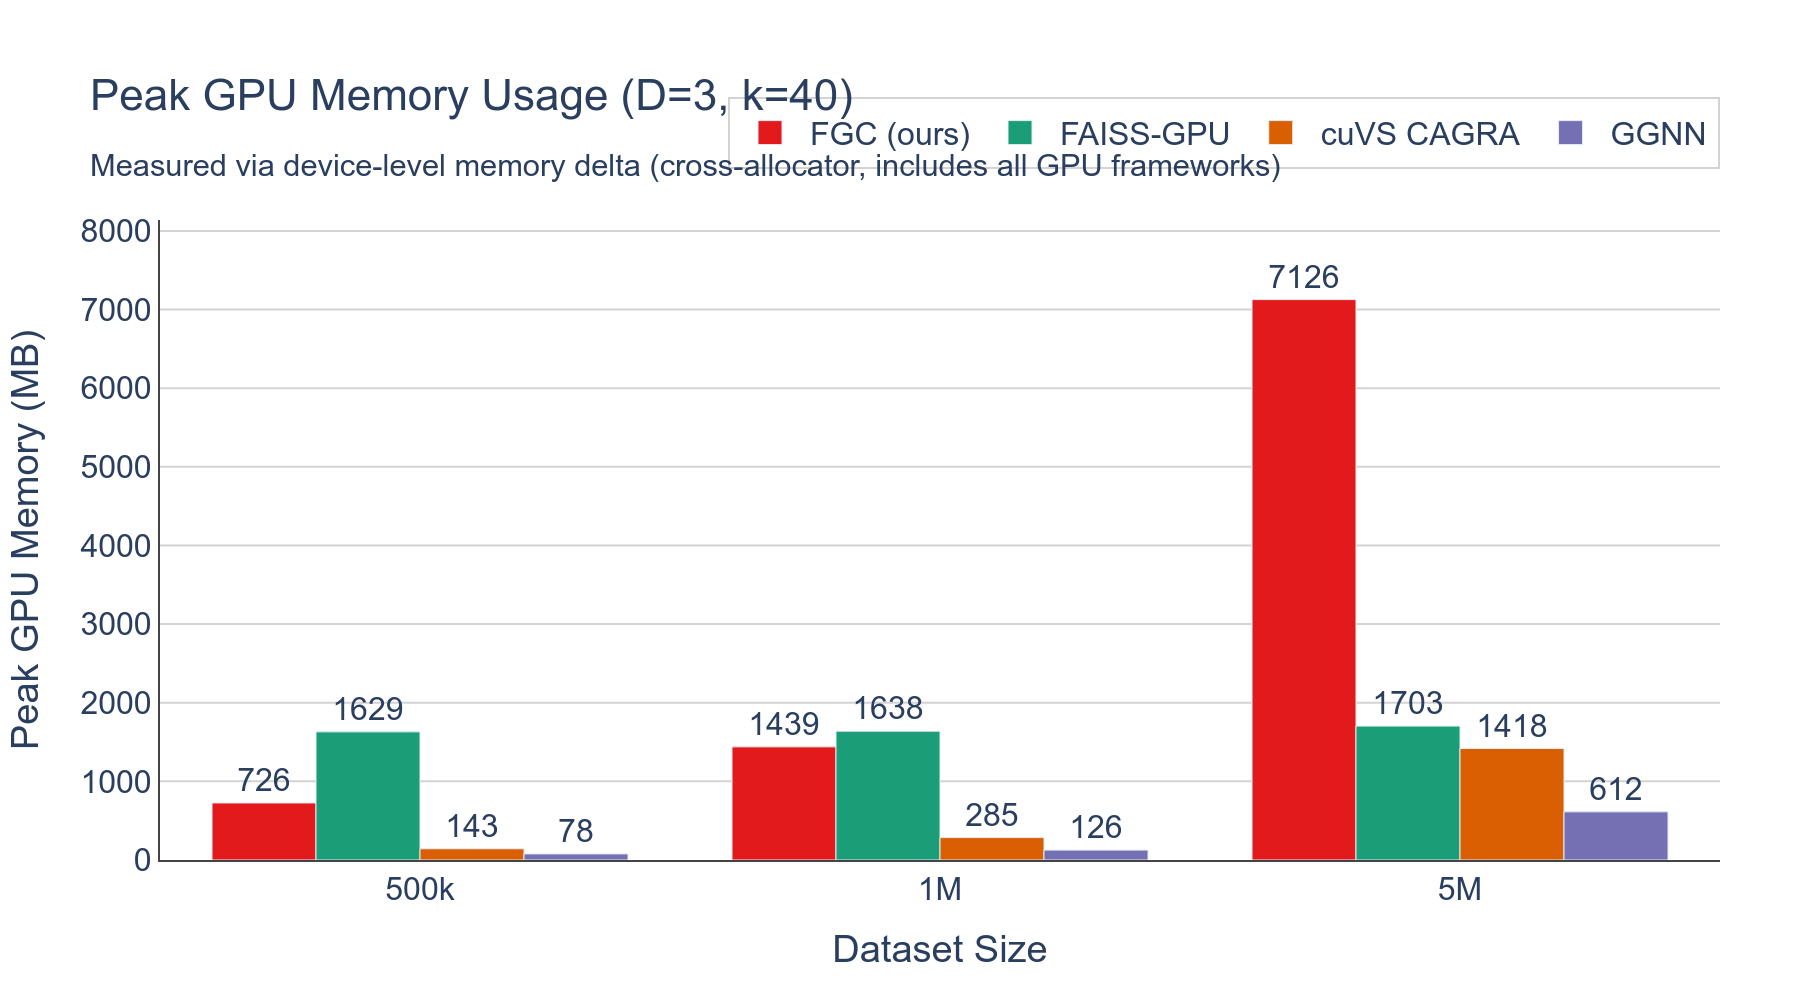
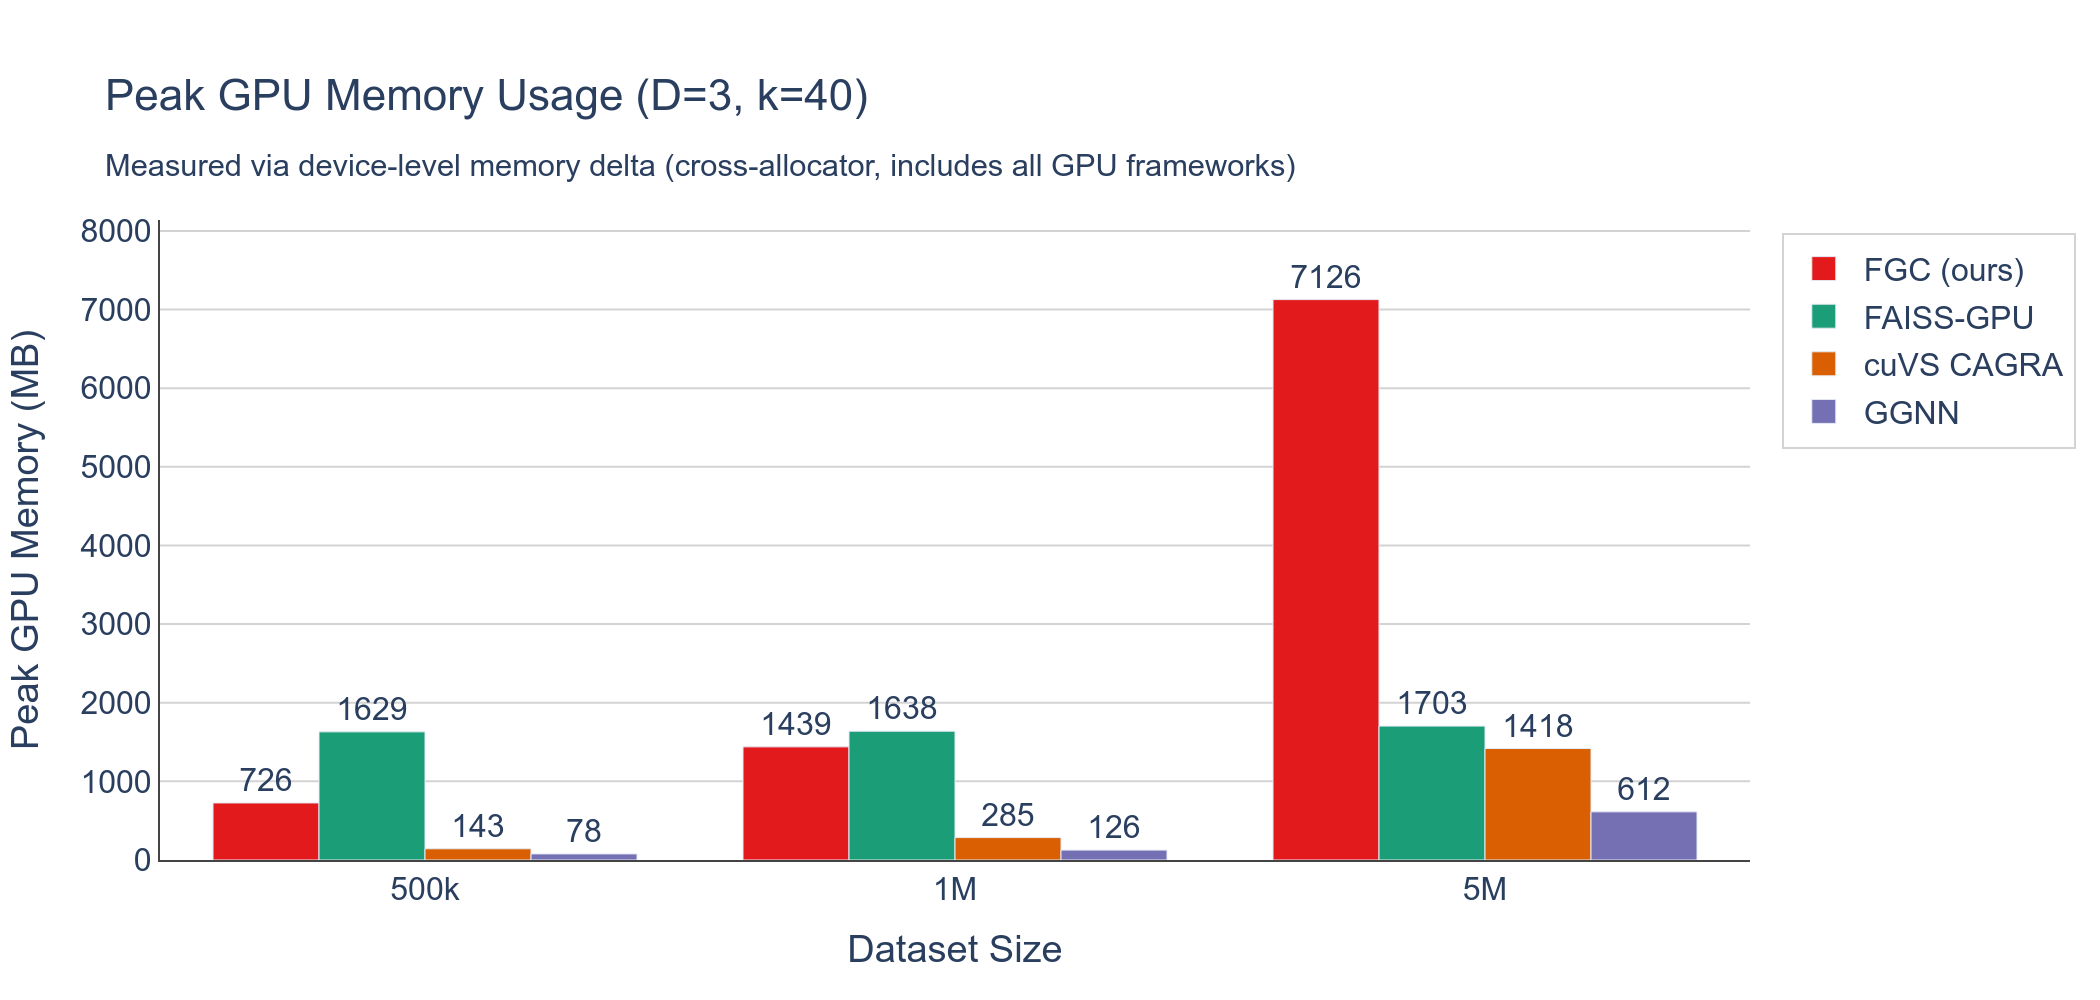
process_gpu_csvs: memory_footprint legend layout tweak
Move legend from top-horizontal to right-vertical (orientation 'v',
xanchor 'left', x=1.02) and bump right margin to 170 so 6 entries fit
without overlapping the axes. Bump figure width 900->1050.

Regenerated outputs:
- plots/memory_footprint.png
- plots/recall_controlled_comparison.png

diff --git a/process_gpu_csvs.py b/process_gpu_csvs.py
@@ -926,9 +926,9 @@ def plot_memory_footprint(
         font=dict(family="Arial", size=16),
         plot_bgcolor="white",
         paper_bgcolor="white",
-        legend=dict(orientation="h", yanchor="bottom", y=1.08, xanchor="right", x=1,
+        legend=dict(orientation="v", yanchor="top", y=0.98, xanchor="left", x=1.02,
                     bgcolor="rgba(255,255,255,0.85)", bordercolor="lightgray", borderwidth=1),
-        margin=dict(t=110, b=70, l=80, r=40),
+        margin=dict(t=110, b=70, l=80, r=170),
     )
     return fig
 
@@ -1205,7 +1205,7 @@ def create_plots() -> None:
     print("\n9. Creating memory footprint comparison...")
     fig9 = plot_memory_footprint(dim=3, k=40)
     if fig9.data:
-        save_figure(fig9, os.path.join(PLOTS_DIR, "memory_footprint.png"), 900, 500)
+        save_figure(fig9, os.path.join(PLOTS_DIR, "memory_footprint.png"), 1050, 500)
 
     print("\n10. Creating recall vs speed Pareto front...")
     fig10 = plot_recall_speed_pareto(points=500_000, k=40)
